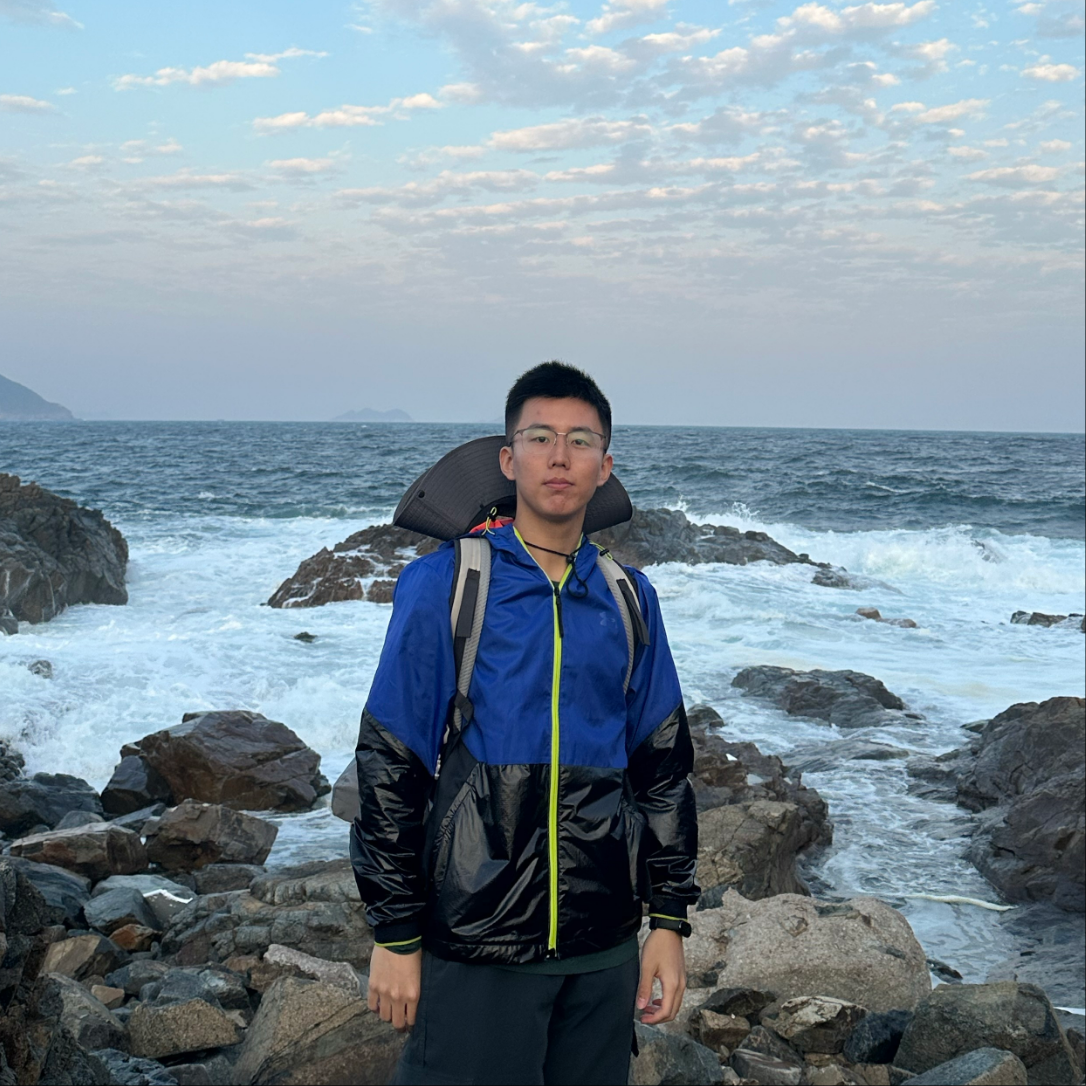
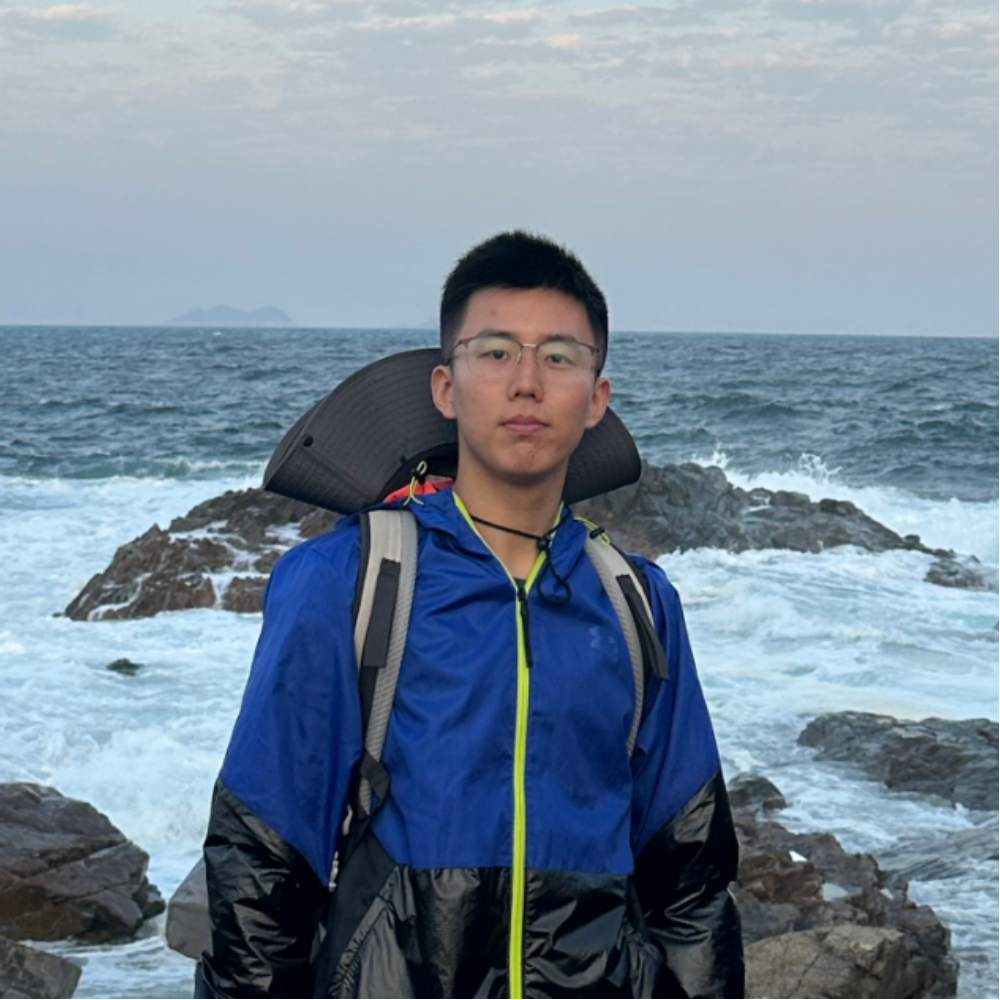
update

diff --git a/index.html b/index.html
@@ -39,7 +39,7 @@
               </p>
             </td>
             <td style="padding:2.5%;width:40%;max-width:40%">
-              <a href="images/gzf.png"><img style="width:100%;max-width:100%" alt="profile photo" src="images/gzf.png" class="hoverZoomLink"></a>
+              <a href="images/gzf.png"><img style="width:100%;max-width:100%; border-radius:50%;" alt="profile photo" src="images/gzf.png" class="hoverZoomLink"></a>
             </td>
           </tr>
         </tbody></table>
@@ -48,7 +48,7 @@
         <table style="width:100%;border:0px;border-spacing:0px;border-collapse:separate;margin-right:auto;margin-left:auto;"><tbody>
             <tr>
             <td style="padding:20px;width:100%;vertical-align:middle">
-              <h2>Selected Publications</h2>
+              <heading style="font-size:28px;">Selected Publications</heading>
             </td>
           </tr>
         </tbody></table>
@@ -86,7 +86,7 @@
         <table style="width:100%;border:0px;border-spacing:0px;border-collapse:separate;margin-right:auto;margin-left:auto;"><tbody>
           <tr>
             <td style="padding:20px;width:100%;vertical-align:middle">
-              <h2>Teaching Assistants</h2>
+              <heading style="font-size:28px;">Teaching Assistants</heading>
                 <p> <strong>Spring Term, 2025</strong>:    <em>Artificial Intelligence</em> (The Hong Kong Polytechnic University) </p>
                 <p> <strong>Fall Term, 2024</strong>:    <em>Computer Programming</em> (The Hong Kong Polytechnic University) </p>
                 <p> <strong>Fall Term, 2023</strong>:    <em>Computer Programming</em> (The Hong Kong Polytechnic University) </p>
